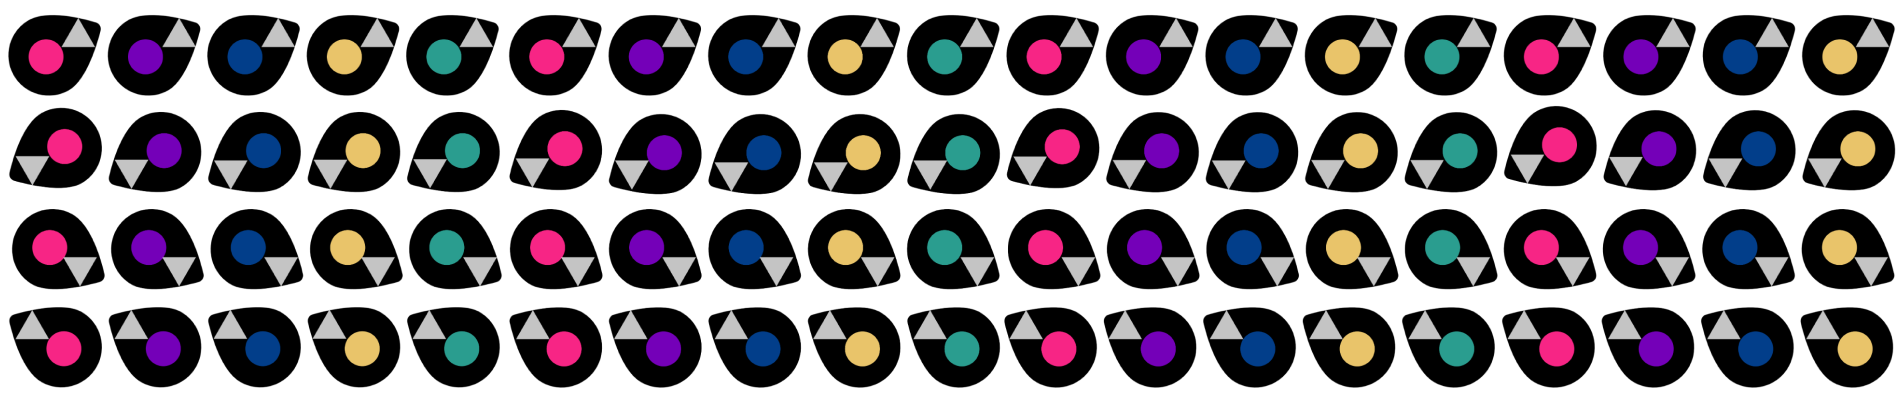
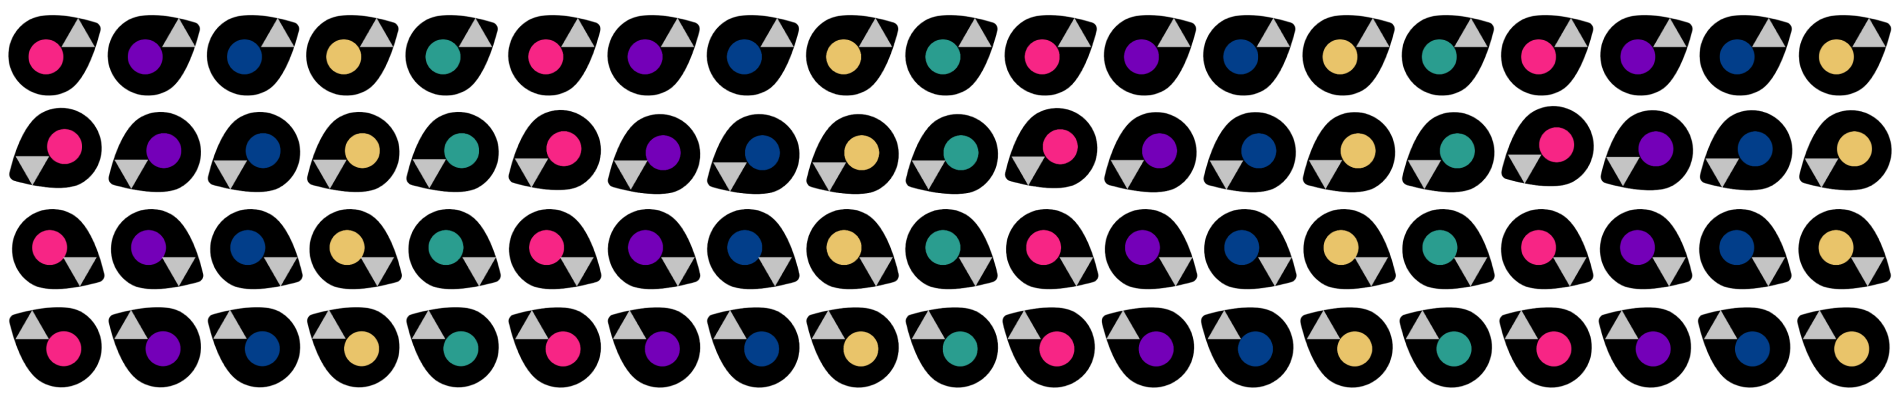
added new sprite sheets, previous file sizes were too large

diff --git a/frontend_canvas/src/App.js b/frontend_canvas/src/App.js
@@ -1140,8 +1140,8 @@ class App extends Component {
       store1: [],
       store2: [],
     };
-    this.charSpriteHeight = 512;
-    this.charSpriteWidth = 512;
+    this.charSpriteHeight = 100;
+    this.charSpriteWidth = 100;
     this.addAiPlayerKeyPress = false;
     this.addAiCount = {
       state: false,
